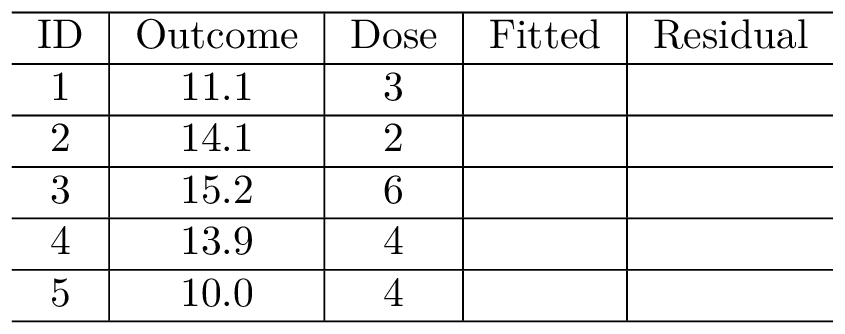
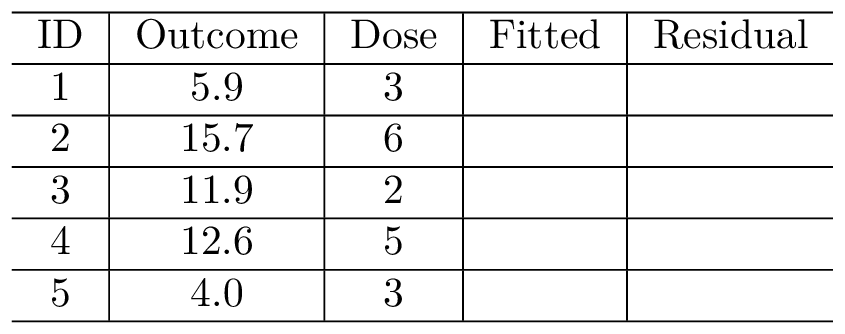
refresh

diff --git a/03-Single-Variable-Regression-Inference/03-Single-Variable-Regression-Inference.html b/03-Single-Variable-Regression-Inference/03-Single-Variable-Regression-Inference.html
@@ -503,11 +503,11 @@ class: MSU
 .pull-right[
 | Statistic | Value |
 |:---:|:---:|
-| `\(\bar{y}\)` | 12.86 |
+| `\(\bar{y}\)` | 10.02 |
 | `\(\bar{x}\)` | 3.8 |
-| `\(SST_y = \sum (y_i - \bar{y})^2\)`   | 19.372 |
-| `\(SST_x = \sum (x_i - \bar{x})^2\)`   | 8.8 |
-| `\(\sum (y_i - \bar{y})(x_i - \bar{x})\)` | 3.96 |
+| `\(SST_y = \sum (y_i - \bar{y})^2\)`   | 95.668 |
+| `\(SST_x = \sum (x_i - \bar{x})^2\)`   | 10.8 |
+| `\(\sum (y_i - \bar{y})(x_i - \bar{x})\)` | 20.32 |
 | 
 ]
 
@@ -564,19 +564,17 @@ Check your work here:
 ## lm(formula = Outcome ~ Dose, data = df)
 ## 
 ## Residuals:
-##     1     2     3     4     5 
-## -1.40  2.05  1.35  0.95 -2.95 
+##       1       2       3       4       5 
+## -2.6148  1.5407  5.2667  0.3222 -4.5148 
 ## 
 ## Coefficients:
-##             Estimate Std. Error t value Pr(&gt;|t|)  
-## (Intercept)  11.1500     3.2854   3.394   0.0427 *
-## Dose          0.4500     0.8163   0.551   0.6198  
-## ---
-## Signif. codes:  0 '***' 0.001 '**' 0.01 '*' 0.05 '.' 0.1 ' ' 1
+##             Estimate Std. Error t value Pr(&gt;|t|)
+## (Intercept)    2.870      5.425   0.529    0.633
+## Dose           1.881      1.331   1.413    0.253
 ## 
-## Residual standard error: 2.421 on 3 degrees of freedom
-## Multiple R-squared:  0.09199,	Adjusted R-squared:  -0.2107 
-## F-statistic: 0.3039 on 1 and 3 DF,  p-value: 0.6198
+## Residual standard error: 4.376 on 3 degrees of freedom
+## Multiple R-squared:  0.3996,	Adjusted R-squared:  0.1995 
+## F-statistic: 1.997 on 1 and 3 DF,  p-value: 0.2525
 ```
     </textarea>
 <style data-target="print-only">@media screen {.remark-slide-container{display:block;}.remark-slide-scaler{box-shadow:none;}}</style>
